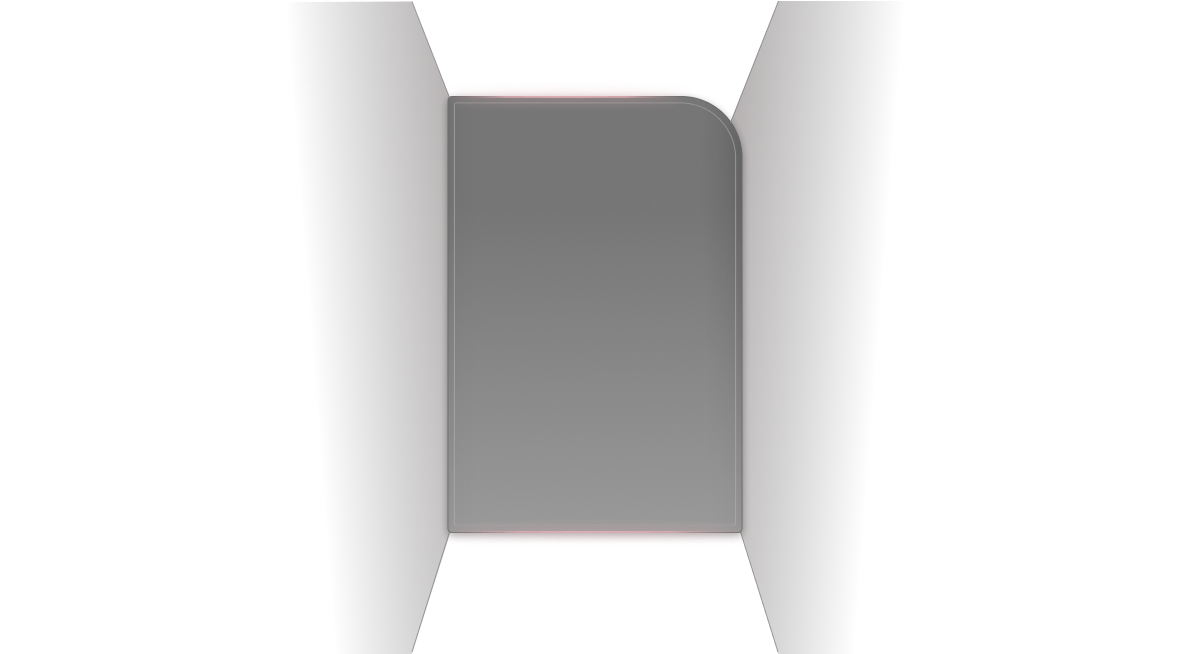
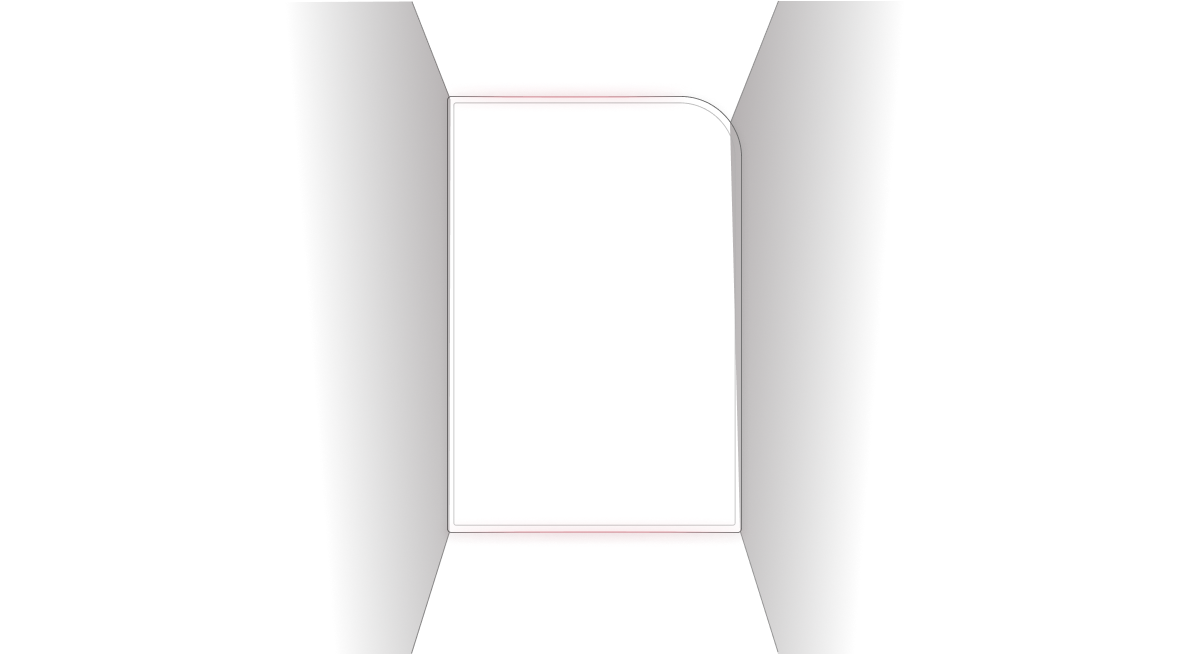
passport progress

Changed region(s): [[0.3731, 0.1223, 0.6218, 0.8257]]

diff --git a/src/body_content/passport.js b/src/body_content/passport.js
@@ -8,37 +8,35 @@ import styles from './passport_styles.js';
 export default function PASSPORT(props) {
 
   return (
-    <div style={styles.egg_container}>
-      <Grid>
-        <Typography>eleriah pioneer</Typography>
-        <Typography>PASSPORT</Typography>
-        <Typography>issued: 06-06-22</Typography>
-        <Grid container direction="column">
-          <img src={default_passport} alt="passport_symbol"/>
-          <div style={styles.hr}/>
-          <Grid container direction="row">
-            <img src={lock} alt="lock image"/>
-            <Typography>
-              Locked
-            </Typography>
-          </Grid>
-        </Grid>
-        <Typography>survival assessment</Typography>
-        <Typography>unlikely</Typography>
+    <Grid style={styles.passport_container}>
+      <Typography style={styles.title}>eleriah pioneer</Typography>
+      <Typography style={styles.passport}>PASSPORT</Typography>
+      <Typography style={styles.date}>issued: 06-06-22</Typography>
+      <Grid container direction="column" justifyContent="center" alignItems="center" style={styles.image_container}>
+        <img src={default_passport} alt="passport_symbol" style={styles.passport_image}/>
         <div style={styles.hr}/>
-        <Grid>
-          <Grid>
-            <Typography>Rank XP</Typography>
-          </Grid>
-          <Grid>
-            <div/>
-          </Grid>
-          <Grid>
-            <Typography>9,999/999,999</Typography>
-          </Grid>
+        <Grid container direction="row" justifyContent="center" alignItems="center" style={styles.decoder_container}>
+          <img src={lock} alt="lock image" style={styles.lock_image}/>
+          <Typography style={styles.decoder_text}>
+            Locked
+          </Typography>
         </Grid>
       </Grid>
-    </div>
+      <Typography>survival assessment</Typography>
+      <Typography>unlikely</Typography>
+      <div style={styles.hr}/>
+      <Grid>
+        <Grid>
+          <Typography>Rank XP</Typography>
+        </Grid>
+        <Grid>
+          <div/>
+        </Grid>
+        <Grid>
+          <Typography>9,999/999,999</Typography>
+        </Grid>
+      </Grid>
+    </Grid>
   );
 }
 

diff --git a/src/body_content/passport_styles.js b/src/body_content/passport_styles.js
@@ -1,5 +1,69 @@
 const styles = {
-
+  passport_container: {
+    width: "260px",
+    height: "387px",
+    border: "1px solid #888888",
+    borderRadius: "4.58071px 61.3816px 4.58071px 4.58071px",
+    marginLeft: "5px",
+    padding: "10px 23px",
+  },
+  title: {
+    textAlign: "left",
+    fontWeight: "700",
+    fontSize: "12px",
+    textTransform: "uppercase",
+    color: "#888888",
+    lineHeight: "18px",
+    letterSpacing: "0.1em",
+  },
+  passport: {
+    textAlign: "left",
+    fontWeight: "700",
+    fontSize: "28px",
+    lineHeight: "27px",
+    letterSpacing: "0.1em",
+    textTransform: "uppercase",
+    color: "#F6F6F6",
+  },
+  date: {
+    textAlign: "left",
+    fontWeight: "700",
+    fontSize: "10px",
+    lineHeight: "12px",
+    letterSpacing: "0.1em",
+    textTransform: "uppercase",
+    color: "#888888",
+    margin: "7px 0",
+  },
+  image_container: {
+    width: "100%",
+    height: "200px",
+    border: "0.6413px solid #6A6A6A",
+    borderRadius: "4.58071px",
+  },
+  passport_image: {
+    width: "120px",
+    height: "120px",
+  },
+  hr: {
+    marginTop: "18px",
+    width: "75%",
+    height: "1px",
+    backgroundColor: "#888888",
+  },
+  decoder_container: {
+    marginTop: "12px",
+    width: "100%",
+  },
+  lock_image: {
+    marginRight: "5px",
+  },
+  decoder_text: {
+    fontWeight: "600",
+    fontSize: "16px",
+    lineHeight: "20px",
+    textTransform: "uppercase",
+  },
 };
 
 export default styles;

diff --git a/src/body_content/bounty_page_styles.js b/src/body_content/bounty_page_styles.js
@@ -14,7 +14,19 @@ const styles = {
     marginRight: "40px",
   },
   center_panel_container: {
-
+    width: "270px",
+    height: "397px",
+    background: "linear-gradient(180deg, rgba(0, 0, 0, 0.539) 25.01%, rgba(15, 15, 15, 0.385) 120.09%)",
+    /* box (blurred) */
+    border: "0.916143px solid #6A6A6A",
+    backdropFilter: "blur(36.6457px)",
+    /* Note: backdrop-filter has minimal browser support */
+    borderRadius: "4.58071px 61.3816px 4.58071px 4.58071px",
+    marginBottom: "23px",
+    marginLeft: "2px",
+    display: "flex",
+    justiftContent: "center",
+    alignItems: "center",
   },
   tab_label_grid: {
     position: "relative",

diff --git a/src/body_content/rewards_styles.js b/src/body_content/rewards_styles.js
@@ -6,9 +6,9 @@ const styles = {
   rewards_grid_container: {
     padding: "15px",
     background: "linear-gradient(180deg, rgba(0, 0, 0, 0.42) 25.01%, rgba(15, 15, 15, 0.3) 120.09%)",
+    backdropFilter: "blur(40px)",
     border: "1px solid #6A6A6A",
     boxShadow: "0px 3px 10px rgba(0, 0, 0, 0.35)",
-    backdropFilter: "blur(40px)",
     borderRadius: "5px",
     marginBottom: "5px",
     heigh: "100%",

diff --git a/src/body_content/bounty_page.js b/src/body_content/bounty_page.js
@@ -119,7 +119,7 @@ export default function BOUNTY_PAGE(props) {
             <LEADERBOARD/>
           </TabPanel>
         </Grid>
-        <Grid container item xs={3}>
+        <Grid container item xs={4} justifyContent="center" alignItems="center">
           <div style={styles.center_panel_container}>
             <PASSPORT/>
           </div>
